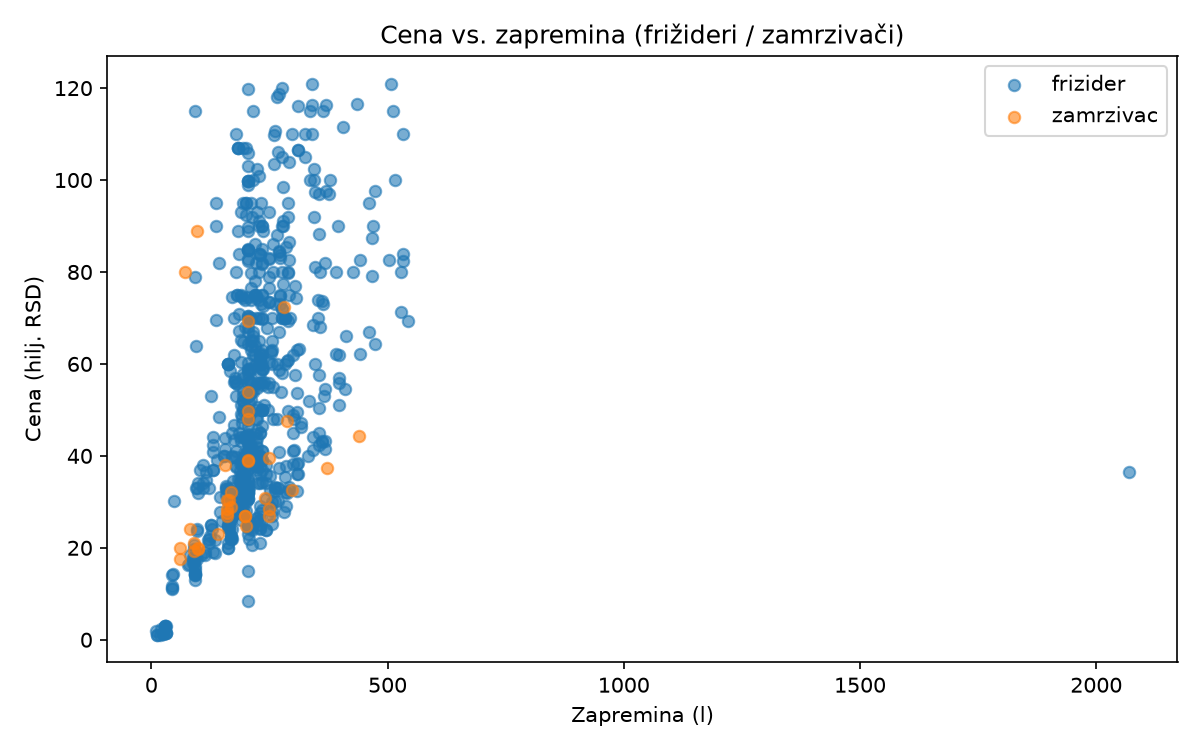
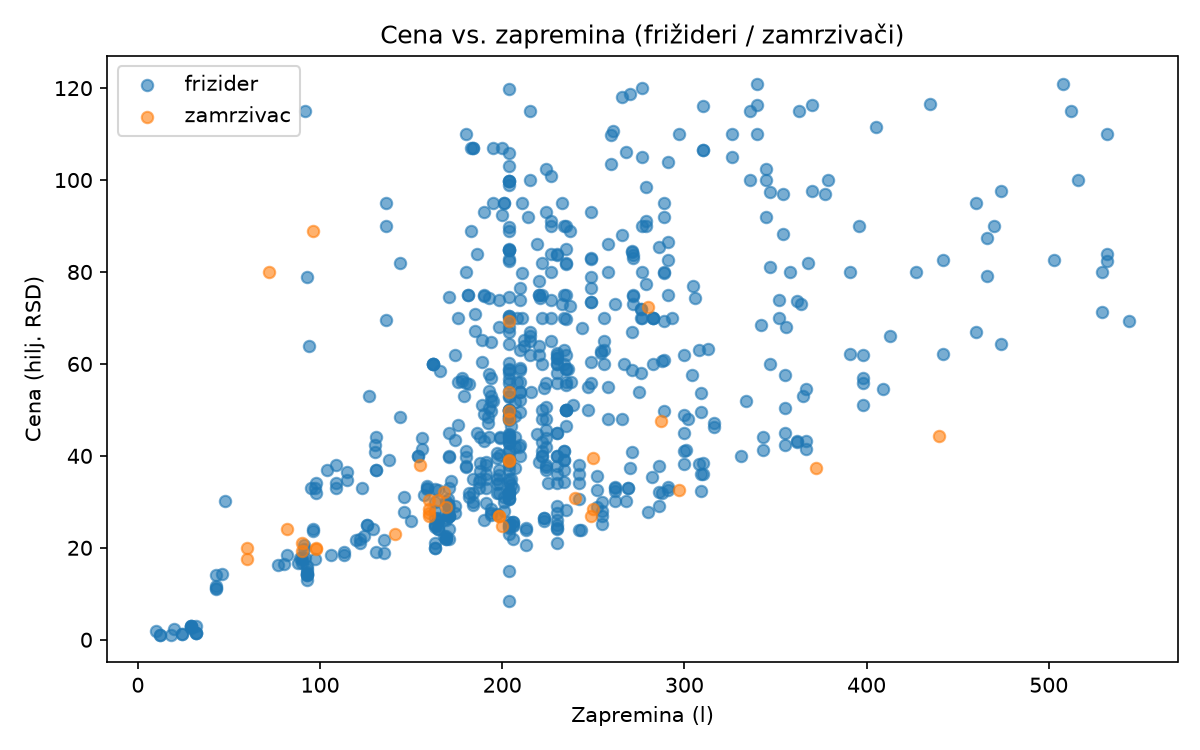
GUI fiksevi: citljiv graf kategorija (horizontalni top-18), predict uppercase brend, granice tehnickih atributa (resava klaster-singleton)
1) Pregled baze: horizontalni bar top-18 umesto 34 necitljiva stuba. 2) Regresija predict: uppercase brend da se uskladi sa normalizovanom bazom (primer 'Samsung' vise ne baca gresku). 3) cisti_podatke: granice fizicki mogucih tehnickih vrednosti (frizider 2069l -> NULL) - K=4 sad daje 4 balansirana klastera umesto singletona.

diff --git a/kod/aplikacija/app.py b/kod/aplikacija/app.py
@@ -242,7 +242,7 @@ class TabPregledBaze(tk.Frame):
         # — Srednji panel: graf broja po kategoriji —
         graf = kartica(self, "Broj proizvoda po kategoriji")
         graf.pack(fill="x", padx=20, pady=10)
-        self.fig = Figure(figsize=(7, 2.8), dpi=100, facecolor=BG2)
+        self.fig = Figure(figsize=(7, 4.2), dpi=100, facecolor=BG2)
         self.ax = self.fig.add_subplot(111)
         self._nacrtaj_kategorije()
         canvas = FigureCanvasTkAgg(self.fig, master=graf)
@@ -277,13 +277,18 @@ class TabPregledBaze(tk.Frame):
         self._popuni_tabelu()
 
     def _nacrtaj_kategorije(self):
-        brojevi = self.df["kategorija"].value_counts()
+        # horizontalni bar, top 18 kategorija — čitljivije od 34 uspravna stuba
+        brojevi = self.df["kategorija"].value_counts().head(18)[::-1]
         dark_osu(self.ax)
         boje = [KLASTER_BOJE[i % len(KLASTER_BOJE)] for i in range(len(brojevi))]
-        self.ax.bar(range(len(brojevi)), brojevi.values, color=boje)
-        self.ax.set_xticks(range(len(brojevi)))
-        self.ax.set_xticklabels(brojevi.index, rotation=45, ha="right", fontsize=6)
-        self.ax.set_ylabel("broj")
+        y = range(len(brojevi))
+        self.ax.barh(y, brojevi.values, color=boje)
+        self.ax.set_yticks(list(y))
+        self.ax.set_yticklabels(brojevi.index, fontsize=7)
+        self.ax.set_xlabel("broj proizvoda")
+        # broj na kraju svakog bara
+        for i, v in enumerate(brojevi.values):
+            self.ax.text(v, i, f" {v}", va="center", fontsize=6, color=TEXT)
         self.fig.tight_layout()
 
     def _popuni_tabelu(self):
@@ -461,6 +466,9 @@ class TabRegresija(tk.Frame):
             messagebox.showwarning("Paznja", "Prvo obuci model.")
             return
         red = {k: v.get() for k, v in self.polja.items()}
+        # brend u bazi je normalizovan na velika slova (cisti_podatke) — uskladi unos
+        if red.get("brend"):
+            red["brend"] = red["brend"].strip().upper()
         df_red = pd.DataFrame([{**red, "cena": np.nan}])
         df_kom = pd.concat([self.df, df_red], ignore_index=True)
         for kol in ["dijagonala_inch", "kapacitet_kg", "zapremina_l", "snaga_w", "energetska_klasa_num"]:

diff --git a/kod/02_analiza/cisti_podatke.py b/kod/02_analiza/cisti_podatke.py
@@ -37,7 +37,27 @@ DODATNE_KOLONE = ["energetska_klasa", "dijagonala_inch", "kapacitet_kg", "zaprem
 # kablovi), ne kucni aparati — kvare raspodelu cena i regresiju.
 MIN_CENA = 1000.0
 
+# Fizicki moguci opseg tehnickih atributa — vrednosti van opsega su greske
+# parsiranja (npr. frizider od 2069 l, gde je verovatno "206.9 l"); postavljaju
+# se na NULL da ne kvare klasterovanje/regresiju (jedan outlier pravi svoj klaster).
+OPSEG_ATRIBUTA = {
+    "dijagonala_inch": (10, 120),
+    "kapacitet_kg": (1, 30),
+    "zapremina_l": (10, 1000),
+    "snaga_w": (1, 12000),
+}
+
 _BAZA_DIR = Path(__file__).resolve().parents[2] / "baza"
+
+
+def ogranici_atribute(df: pd.DataFrame) -> pd.DataFrame:
+    """Postavlja na NULL tehnicke vrednosti van fizicki mogucih granica."""
+    df = df.copy()
+    for kol, (lo, hi) in OPSEG_ATRIBUTA.items():
+        if kol in df.columns:
+            van = df[kol].notna() & ((df[kol] < lo) | (df[kol] > hi))
+            df.loc[van, kol] = None
+    return df
 
 
 def ukloni_cenovne_outliere(df: pd.DataFrame) -> pd.DataFrame:
@@ -77,6 +97,9 @@ def ocisti(df: pd.DataFrame) -> pd.DataFrame:
     # (npr. "Vox" vs "VOX", "Gorenje" vs "GORENJE") — spaja ih u jedan brend.
     df = df.copy()
     df["brend"] = df["brend"].astype(str).str.strip().str.upper()
+
+    # Postavi na NULL fizicki nemoguce tehnicke vrednosti (greske parsiranja)
+    df = ogranici_atribute(df)
 
     popunjeno = df[DODATNE_KOLONE].notna().sum(axis=1)
     df = df[popunjeno >= MIN_DODATNIH_ATRIBUTA]
